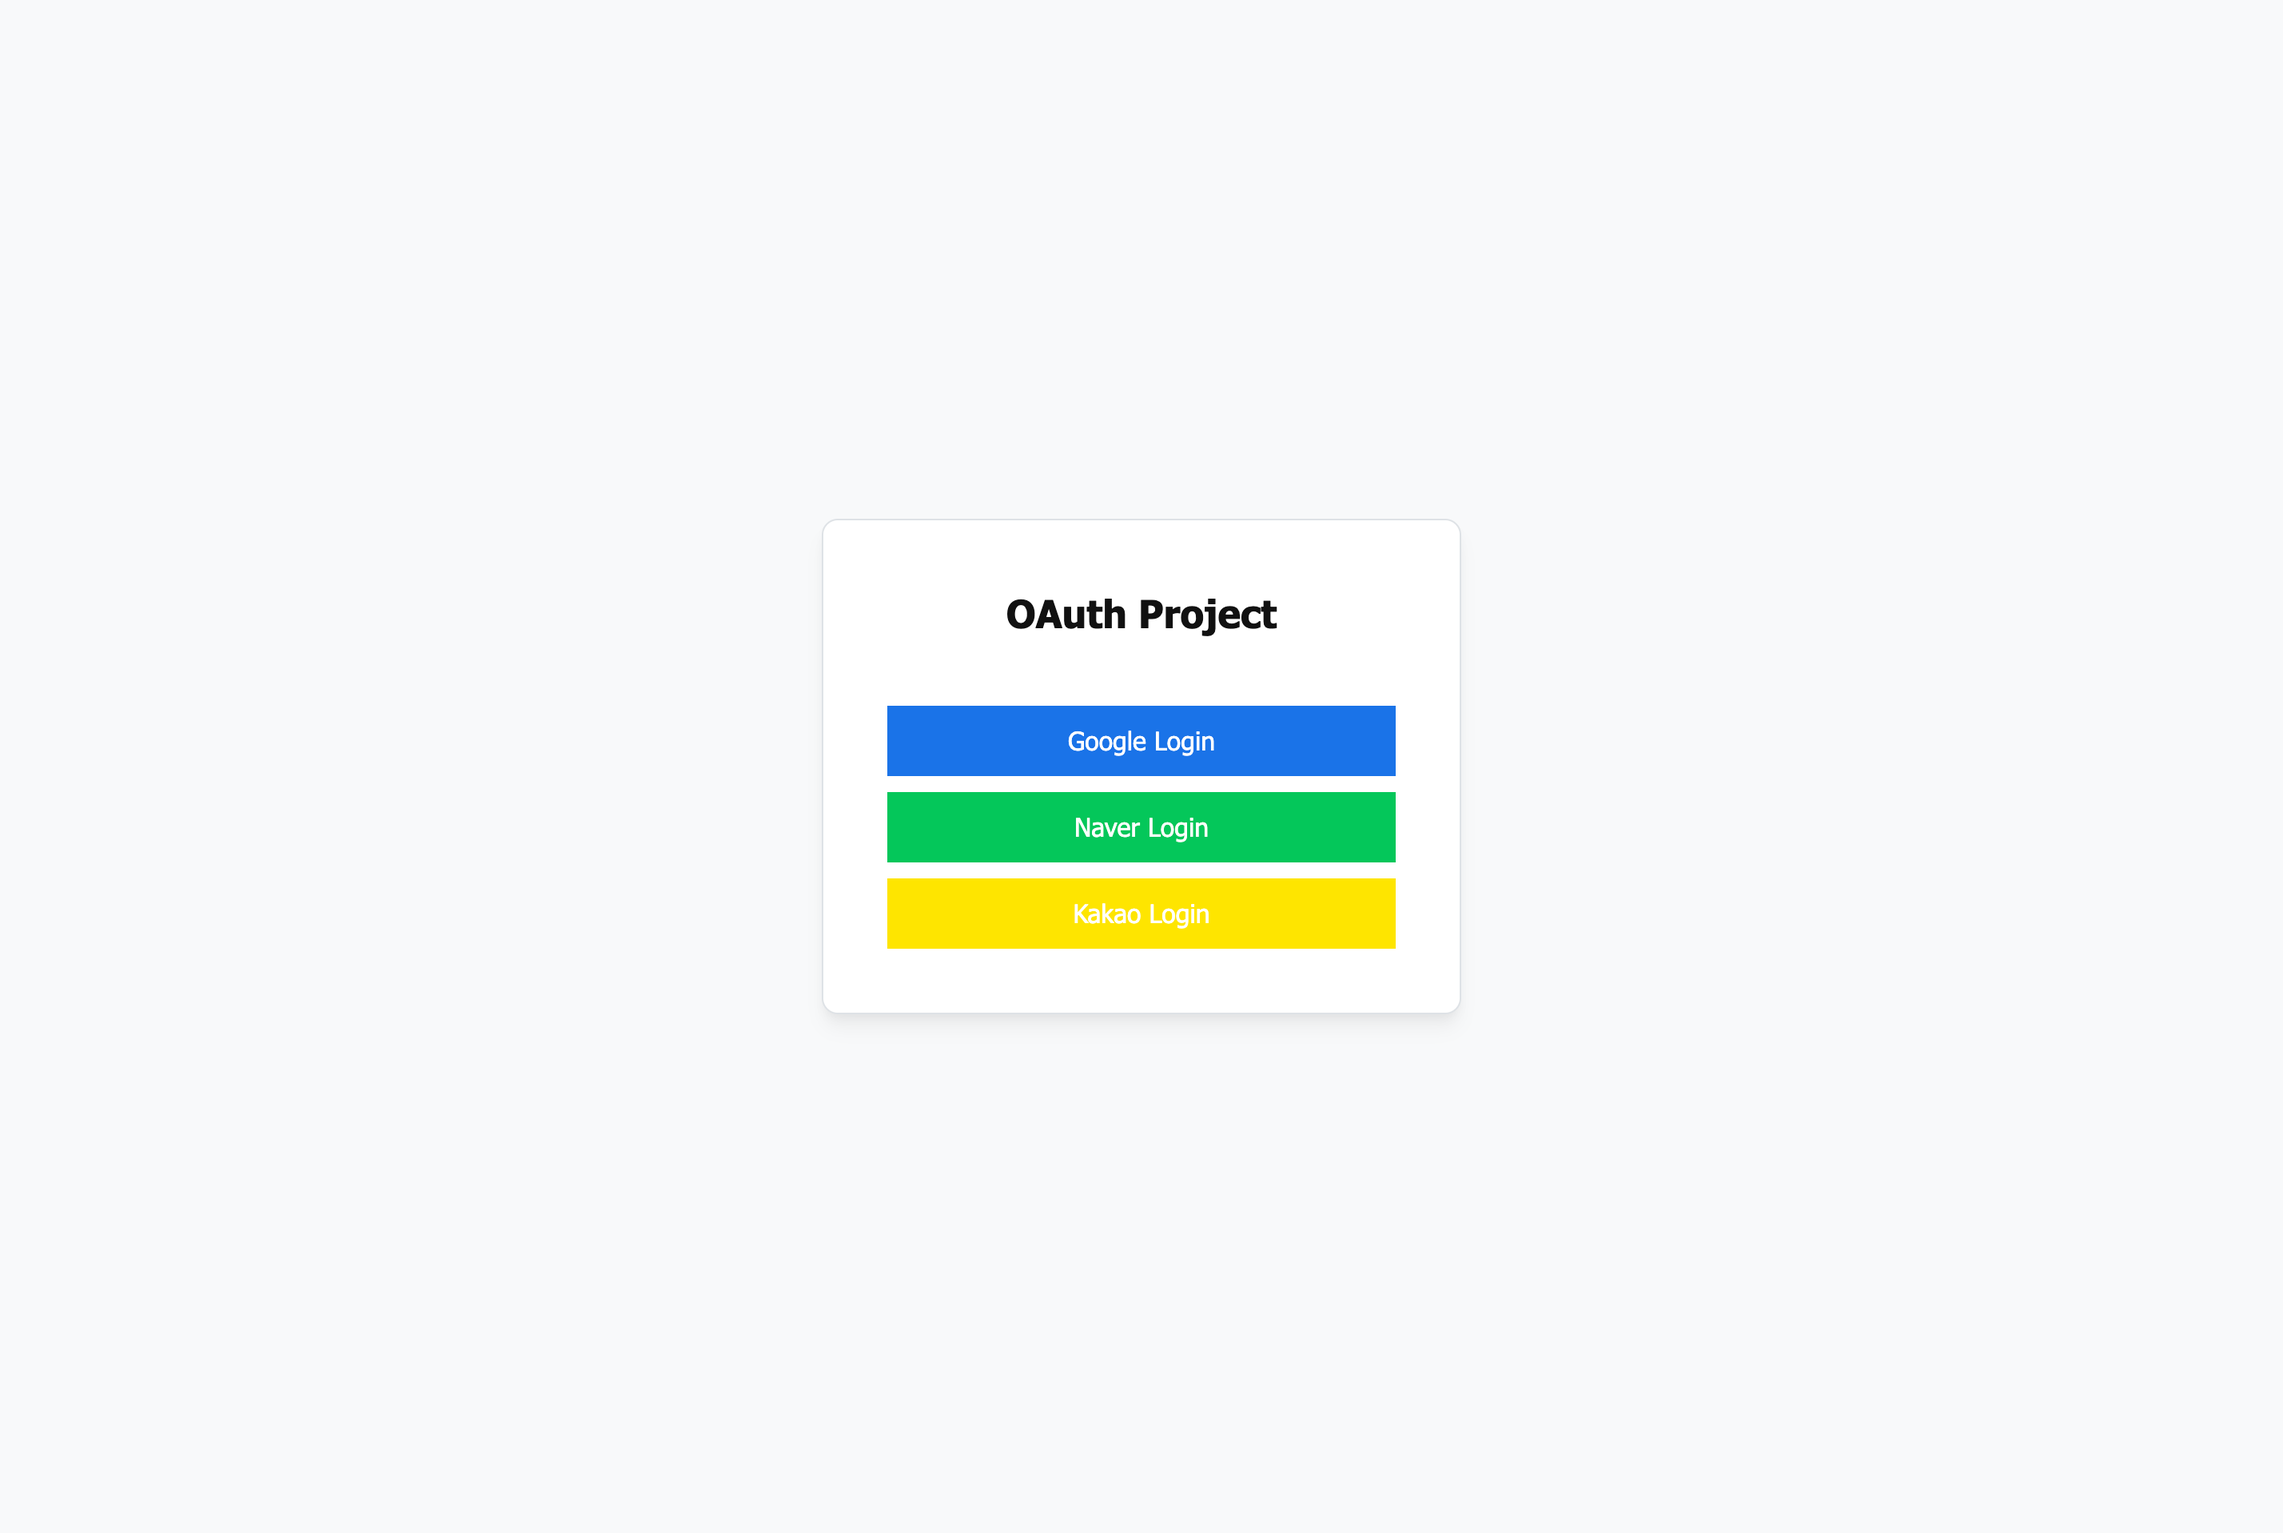
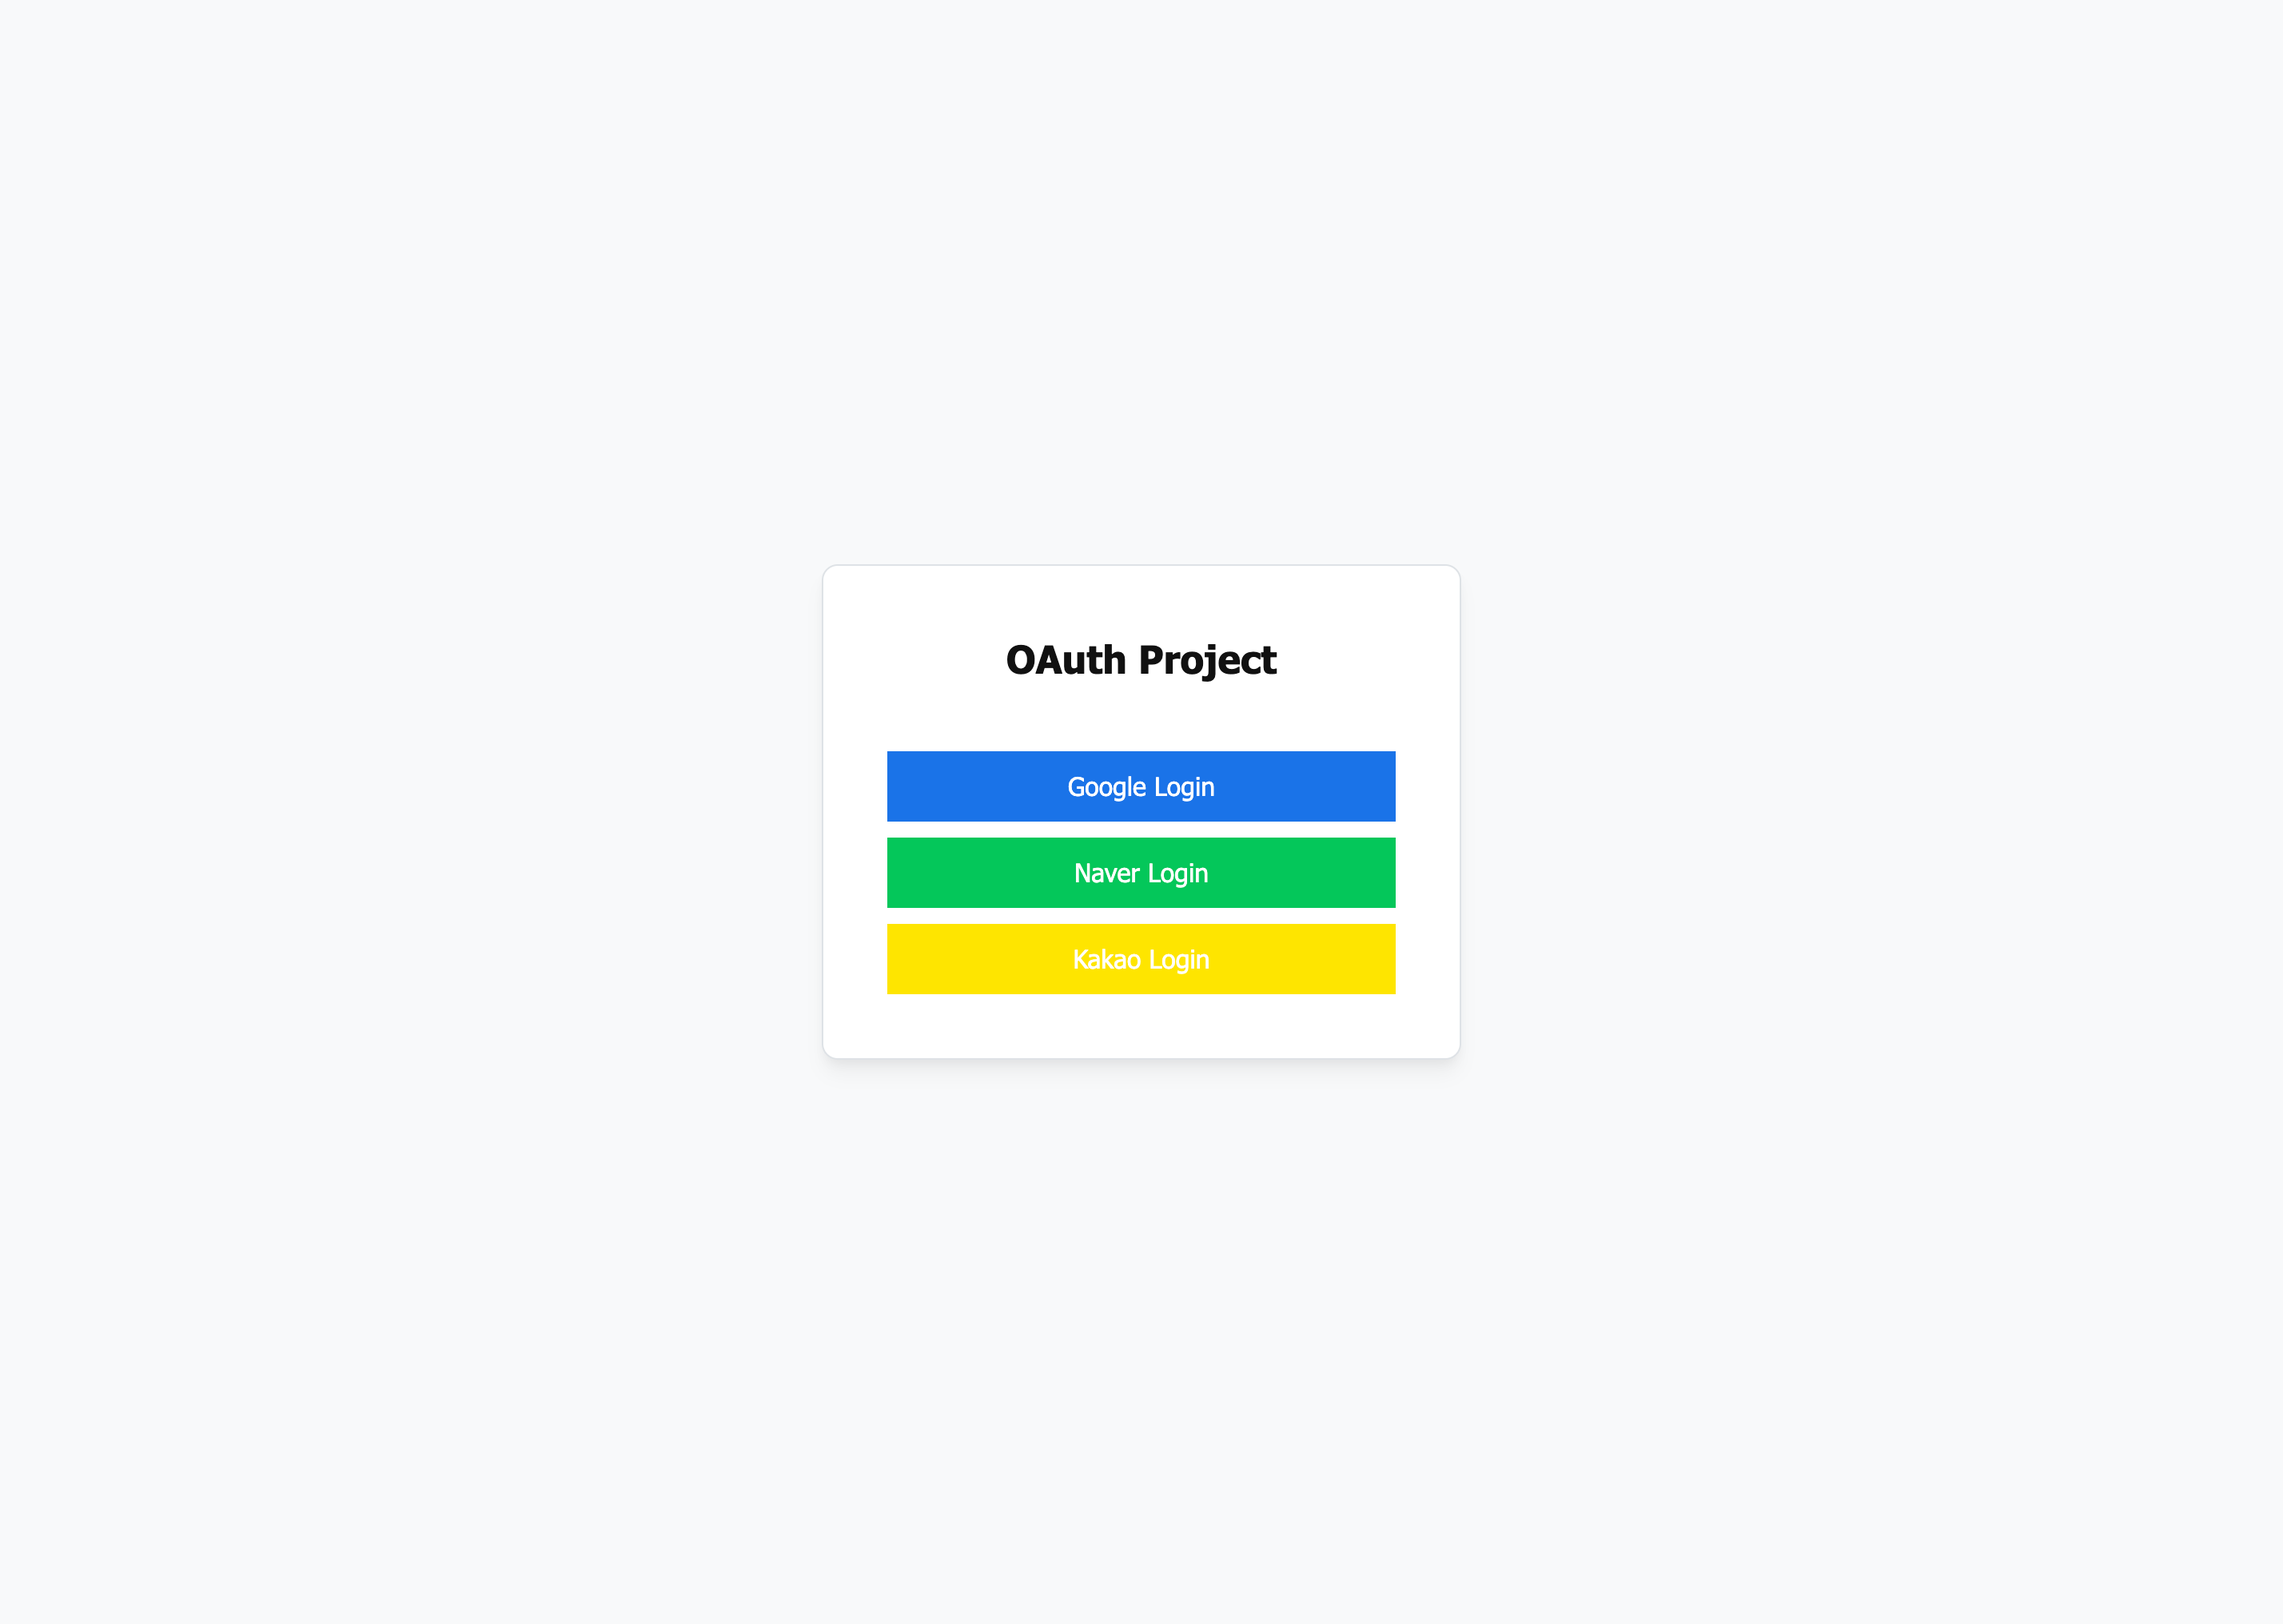
update index.html, style.css, README.md

Changed region(s): [[0.3739, 0.5229, 0.6232, 0.646], [0.4363, 0.3691, 0.5609, 0.4307], [0.4674, 0.4614, 0.5298, 0.4922]]

diff --git a/src/main/resources/templates/index.html b/src/main/resources/templates/index.html
@@ -11,11 +11,13 @@
     <link rel="stylesheet" href="/css/style.css">
 </head>
 <body>
-    <div class="container">
-        <h1>OAuth Project</h1>
-        <a href="/oauth2/authorization/google" class="google">Google Login</a>
-        <a href="/oauth2/authorization/naver" class="naver">Naver Login</a>
-        <a href="/oauth2/authorization/kakao" class="kakao">Kakao Login</a>
+    <div class="center">
+        <div class="container">
+            <h1>OAuth Project</h1>
+            <a href="/oauth2/authorization/google" class="google">Google Login</a>
+            <a href="/oauth2/authorization/naver" class="naver">Naver Login</a>
+            <a href="/oauth2/authorization/kakao" class="kakao">Kakao Login</a>
+        </div>
     </div>
 </body>
 </html>

diff --git a/src/main/resources/static/css/style.css b/src/main/resources/static/css/style.css
@@ -15,9 +15,6 @@ body {
     line-height: 1.5;
     background: #f8f9fa;
     color: #111111;
-    display: flex;
-    justify-content: center;
-    align-items: center;
 }
 
 h1 {
@@ -52,6 +49,14 @@ a:hover {
 
 .kakao {
     background: #fee500;
+}
+
+.center {
+    width: 100%;
+    height: 100%;
+    display: flex;
+    justify-content: center;
+    align-items: center;
 }
 
 .container {

diff --git a/README.md b/README.md
@@ -25,11 +25,8 @@
 <br>
 
 ## Main Function
-- 회원(User)
+- 회원(User) - Google, Naver, Kakao OAuth2 연동
     - 로그인
-    - 로그아웃
-    - 회원가입
-    - 회원탈퇴
 
 <br>
 
@@ -48,11 +45,11 @@ drop table if exists user;
 
 create table user (
     id       bigint primary key not null auto_increment,
-    email    varchar(255) null,
     name     varchar(255) null,
+    email    varchar(255) null,
     password varchar(255) null,
-    provider varchar(255) null,
-    role     varchar(255) null
+    role     varchar(255) null,
+    provider varchar(255) null
 );
 ```
 
